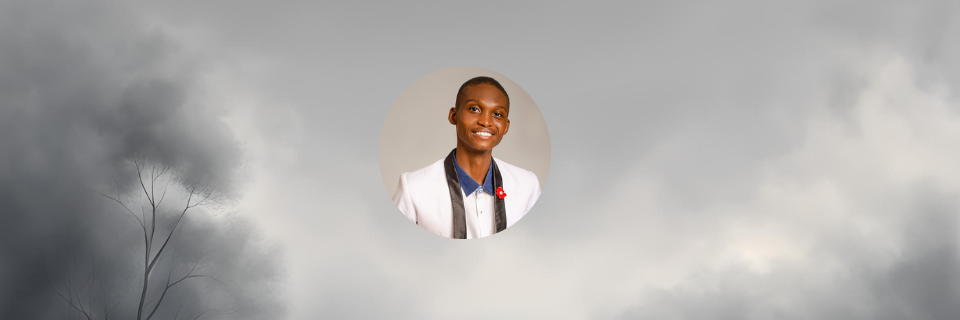
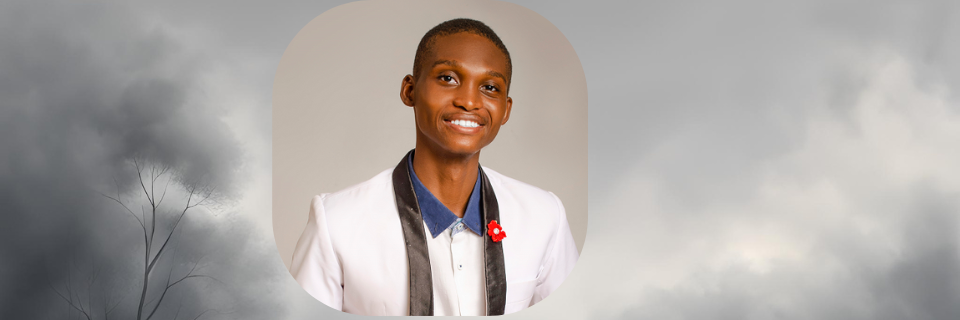
about changed 3

Changed region(s): [[0.2812, 0.0312, 0.625, 1.0], [0.375, 0.0, 0.4375, 0.0625]]

diff --git a/index.html b/index.html
@@ -83,18 +83,27 @@
 			<!-- About -->
 			<article id="domains">
 				<h2 class="major">Domains</h2>
-				<span class="image main"><img src="images/intro.png" alt="" /></span>
-				<p>I wear many hats with pride and dedication. As a Christ Representative,
-					my faith is the cornerstone of my life, guiding my actions and decisions. I am also a Christian
-					songwriter, using my musical talents to compose songs that inspire and uplift others.</p>
+				<span class="image main"><img src="images/mantra.png" alt="" /></span>
+				<p>I wear many hats with pride and dedication. As a Christ Representative, my faith is the cornerstone
+					of my life, guiding my actions and decisions. I am also a Christian songwriter, using my musical
+					talents to compose songs that inspire and uplift others.</p>
 
-				<p>In addition to my spiritual and musical pursuits, I am a dedicated school teacher. The bond I share
-					with my students is precious, and I cherish the memories we have created together, which I proudly
-					showcase on my Instagram. Staying connected with them, even after they have moved on, brings me
-					immense joy and fulfillment.</p>
+				<p>In addition to my spiritual and musical pursuits, I have a passion for teaching. While I am now a
+					part-time teacher, I was once a full-time educator. The bond I share with my students is precious,
+					and I cherish the memories we've created together, which I proudly showcase on my Instagram. Staying
+					connected with them, even after they have moved on, brings me immense joy and fulfillment.</p>
 
-				<p>On a personal note, I am a loving husband. Balancing my various roles, I strive to make a positive
-					impact in all areas of my life, always guided by my faith and commitment to excellence.</p>
+				<p>On a personal note, I am a devoted husband. Balancing my various roles, I strive to make a positive
+					impact in all areas of my life, always guided by my faith and commitment to excellence. </p>
+				<p> I draw my
+					inspiration from my pastor, who is a physician, preacher, professor, writer, and mentor. His words
+					have kept me going, especially: <b><i>"Don't make a case against yourself, because God won't make a
+							case
+							against you. Keep hope alive."</i></b> We also believe that <b><i>"Out of the broken pieces
+							of your past, the Lord
+							shall build an edifice of hope."</i></b>
+				</p>
+
 
 
 
